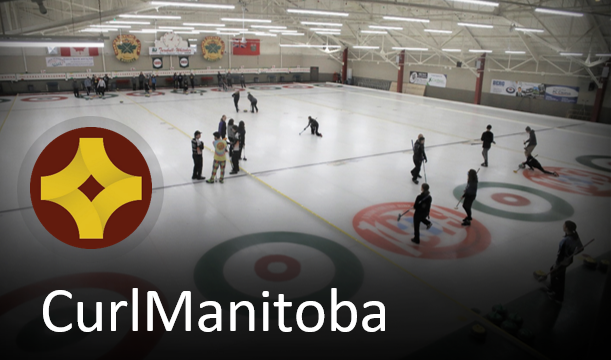
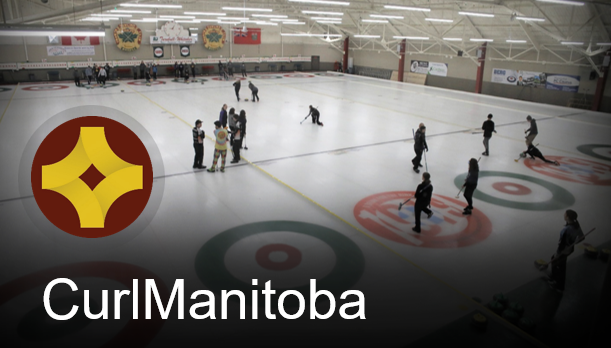
Fix: Adjustments for drawer image
- Reformat to boxfit.cover image
- Refine image

diff --git a/lib/widgets/main_drawer.dart b/lib/widgets/main_drawer.dart
@@ -10,7 +10,7 @@ class MainDrawer extends StatelessWidget {
           drawerTile.Navigate(context);
         },
         child: ListTile(
-          dense: true,
+            dense: true,
             leading: drawerTile.getIcon,
             title: Text(
               drawerTile.getTitle as String,
@@ -37,29 +37,20 @@ class MainDrawer extends StatelessWidget {
   @override
   Widget build(BuildContext context) {
     return Container(
-      color: Colors.black,
-      child: SafeArea(
-        child: Container(
-            width: 290,
-            child: Drawer(
-              child: SingleChildScrollView(
-                child: Column(children: <Widget>[
-                  Container(
-                      padding: EdgeInsets.only(bottom: 100),
-                      decoration: BoxDecoration(
-                        image: DecorationImage(
-                            image: AssetImage('assets/images/DrawerImage.PNG'),
-                            ),
-                      ),
-                      height: 173
-                      ),
-                      Padding(padding: EdgeInsets.only(top:3)),
-                  buildTiles(context)
-                ]),
-              ),
-            )),
-      ),
-    );
+        color: Colors.black,
+        child: SafeArea(
+            child: Container(
+          width: MediaQuery.of(context).size.width * .73,
+          child: Drawer(
+            child: ListView(children: <Widget>[
+              FittedBox(
+                      child: Image.asset("assets/images/DrawerImage.PNG"),
+                      fit: BoxFit.cover),
+              Padding(padding: EdgeInsets.only(top: 3)),
+              SingleChildScrollView(child: buildTiles(context))
+            ]),
+          ),
+        )));
   }
 
   Widget buildDivider() {
